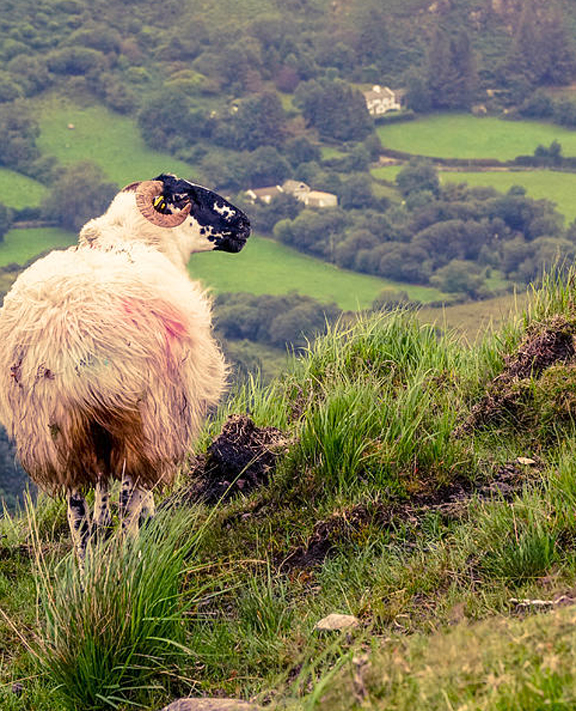
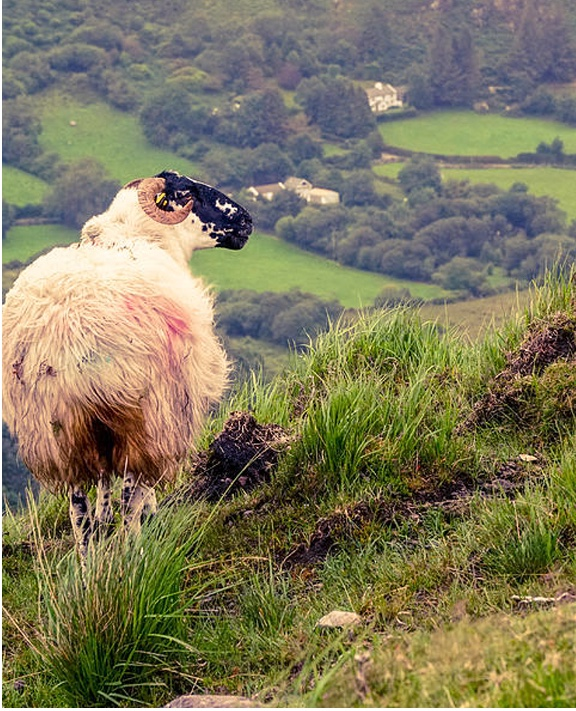
messed up media

diff --git a/deploy/css/styles.css b/deploy/css/styles.css
@@ -369,25 +369,43 @@ textarea {
 /* =============
     Footer
 ============= */
+foot {
+  background-color: #0F790F;
+  padding: 50px 0;
+  display: grid;
+  grid-template-columns: 10px auto 10px;
+  grid-template-areas: ". footer ."; }
+  foot > div {
+    grid-area: footer; }
+
 /* =============
     Section 1
 ============= */
+#section-1 {
+  color: #0F790F;
+  text-align: left; }
+  #section-1 img {
+    width: 100%; }
+
 /* =============
     Section 2
 ============= */
-#section-2 {
-  display: grid;
-  grid-template-columns: 10px auto 10px;
-  grid-template-areas: ". section-2 ."; }
-  #section-2 > div {
-    grid-area: section-2; }
+#section-2 img {
+  width: 50%; }
 
 /* =============
     Section 3
 ============= */
+#section-3 img {
+  width: 100%; }
+
 /* =============
     Section 4
 ============= */
+#section-4 {
+  color: #0F790F;
+  text-align: center; }
+
 /* =============
     Section 5
 ============= */
@@ -395,11 +413,16 @@ textarea {
   display: grid;
   grid-template-columns: 10px auto 10px;
   grid-template-areas: ". section-5 ."; }
+  @media (min-width: 1200px) {
+    #section-5 {
+      grid-template-columns: auto 1200px auto; } }
   #section-5 ul {
     grid-area: section-5;
     display: grid;
     grid-gap: 20px; }
-
+    @media (min-width: 768px) {
+      #section-5 ul {
+        grid-template-columns: repeat(2, 1fr); } }
 /* =============
     Section 6
 ============= */

diff --git a/dev/scss/sections/_section-5.scss b/dev/scss/sections/_section-5.scss
@@ -6,10 +6,18 @@
     grid-template-columns: 10px auto 10px;
     grid-template-areas: ". section-5 .";
 
+    @include xl {
+        grid-template-columns: auto 1200px auto;
+    }
+
     ul {
         grid-area: section-5;
         display: grid;
         grid-gap: 20px;
+
+        @include md {
+            grid-template-columns: repeat(2, 1fr);
+        }
 
     }
 

diff --git a/dev/scss/layout/_footer.scss b/dev/scss/layout/_footer.scss
@@ -1,3 +1,14 @@
 /* =============
     Footer
 ============= */
+foot{
+    background-color: $green;
+    padding: 50px 0;
+    display: grid;
+    grid-template-columns: 10px auto 10px;
+    grid-template-areas: ". footer .";
+
+    >div {
+        grid-area: footer;
+    }
+}

diff --git a/dev/scss/sections/_section-2.scss b/dev/scss/sections/_section-2.scss
@@ -2,12 +2,9 @@
     Section 2
 ============= */
 #section-2{
-    display: grid;
-    grid-template-columns: 10px auto 10px;
-    grid-template-areas: ". section-2 .";
 
-    >div {
-        grid-area: section-2;
+    img {
+        width: 50%;
     }
-
+    
 }

diff --git a/dev/scss/sections/_section-1.scss b/dev/scss/sections/_section-1.scss
@@ -2,8 +2,9 @@
     Section 1
 ============= */
 #section-1{
-    .grid-content{
-        
+    color: $green;
+    text-align: left;
+    img {
+        width: 100%;
     }
-
 }

diff --git a/dev/scss/sections/_section-4.scss b/dev/scss/sections/_section-4.scss
@@ -1,9 +1,8 @@
 /* =============
     Section 4
 ============= */
-#section-4{
-    .grid-content{
-        
-    }
 
+#section-4{
+    color: $green;
+    text-align: center;
 }

diff --git a/dev/scss/sections/_section-3.scss b/dev/scss/sections/_section-3.scss
@@ -1,10 +1,8 @@
 /* =============
     Section 3
 ============= */
-
 #section-3{
-    .grid-content{
-        
+    img {
+        width: 100%;
     }
-
 }

diff --git a/dev/scss/helpers/_variables.scss b/dev/scss/helpers/_variables.scss
@@ -18,3 +18,4 @@ $screen-xl-min: 1200px;
 // Colors
 $white: #fff;
 $black: #000;
+$green: #0F790F
